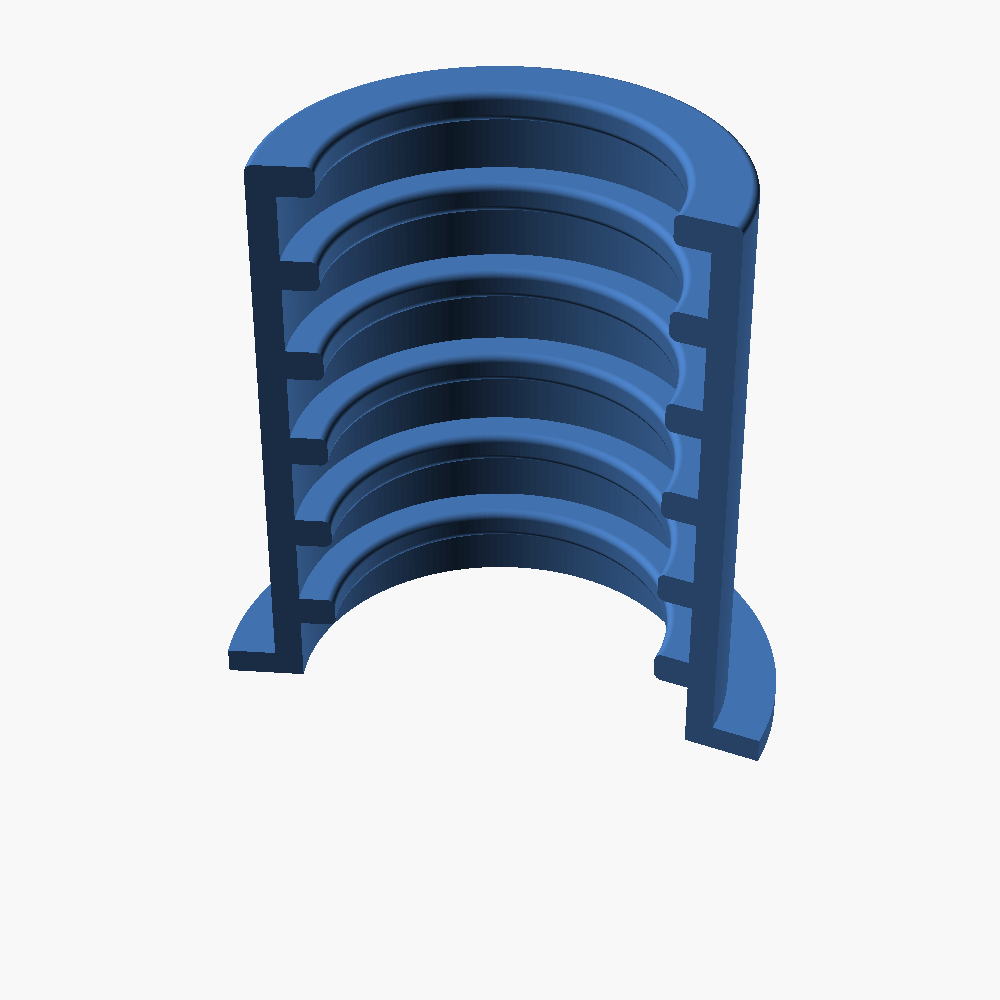
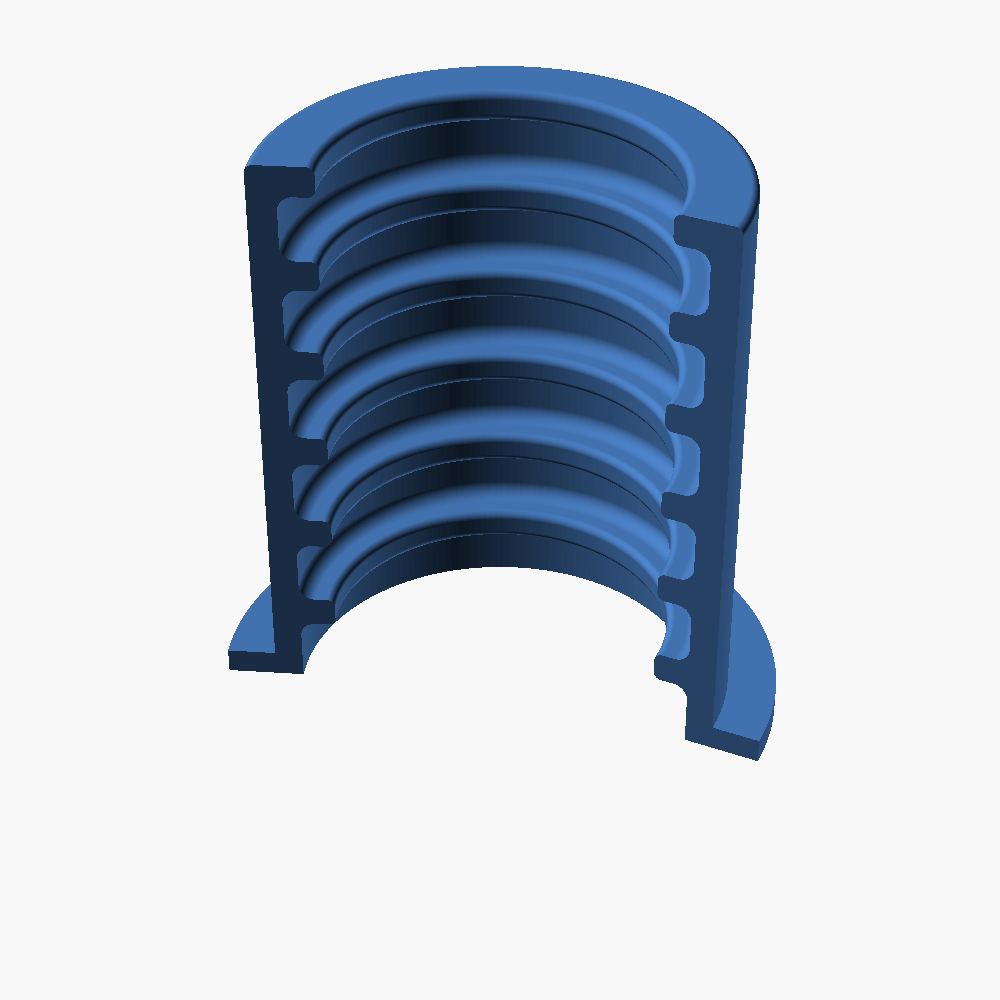
Add groove_fillet to round concave groove bottoms (eases print overhang)
Independent of corr_round (convex tooth tips): groove_fillet does a closing pass
(grow then shrink) that fillets the downward-facing tooth undersides without
eroding the thin teeth. Default 0.6 mm.

diff --git a/README.md b/README.md
@@ -56,7 +56,8 @@ All renders above (the 3D views and the dimensioned drawing) are regenerated by
 | `corr_depth` | `1.4` | How far the grip teeth bite into the conduit grooves (mm) |
 | `corr_width` | `1.2` | Width of each grip tooth along the pipe axis (mm) |
 | `groove_width` | `2.59` | Width of each recess (over a crest) along the axis (mm) |
-| `corr_round` | `0.3` | Fillet radius on the tooth/recess edges (mm); `0` = sharp corners |
+| `corr_round` | `0.3` | Fillet radius on the convex tooth tips (mm); `0` = sharp tips |
+| `groove_fillet` | `0.6` | Fillet radius in the concave groove bottoms (mm); eases the printed tooth-underside overhang. `0` = sharp corners |
 | `corr_count` | `6` | Number of corrugation periods → sets the length |
 | `coverage_deg` | `200` | Degrees of the pipe circumference covered |
 | `flange_overhang` | `3` | How far the flange extends beyond the pipe width (mm) |
@@ -73,10 +74,14 @@ You give the two diameters and the rest is **derived**:
   `(bore_diameter − pipe_diameter) / 2` (here 1 mm radial).
 - The grip teeth bite `corr_depth` into the conduit's grooves (down to the valley), so the
   part is thicker at the teeth and thinnest (= available material) at the recesses.
-- Real conduit crests and valleys are rounded/U-shaped rather than square. `corr_round`
-  fillets the tooth and recess edges with a true radius to match (set it to `0` for sharp
-  corners). It must be ≤ half the smaller of `corr_width`/`groove_width` and ≤ `corr_depth`
-  (both asserted in the model).
+- Real conduit crests and valleys are rounded/U-shaped rather than square, so two
+  independent fillets soften the square-wave profile:
+  - `corr_round` rounds the **convex tooth tips** (≤ half the smaller of
+    `corr_width`/`groove_width`, and ≤ `corr_depth`).
+  - `groove_fillet` rounds the **concave groove bottoms** — the downward-facing tooth
+    undersides — which is the overhang that's hardest to 3D-print, so a larger radius here
+    prints cleaner (≤ `corr_depth` and ≤ `groove_width`/2).
+  Set either to `0` for sharp corners. Both limits are asserted in the model.
 - Flange Ø = `pipe_diameter + 2·flange_overhang` (here 22 mm) — catches on the wall hole.
 - Length = `corr_count · (corr_width + groove_width)` (always whole corrugation periods).
   The defaults were measured off a real "16 mm" conduit: crest Ø 15.8, valley Ø 13.0
